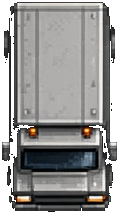
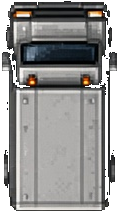
Point truck sprites forward and steer traffic through turns.
Rotate the seven cab-at-the-rear car sprites so every nose points up the file. Cut moving traffic to 14 cars, and make them brake and follow a curved arc through junctions instead of spinning in place.

diff --git a/js/routes.js b/js/routes.js
@@ -14,10 +14,14 @@ const DIRS = [
   [0, -1],
 ];
 
-const MAX_DRIVERS = 32;
+const MAX_DRIVERS = 14;
 const CRUISE_MIN = 108;
 const STOP_GAP = 34;
 const SLOW_GAP = 118;
+const ACCEL = 90;
+const BRAKE = 180;
+const CORNER_SPEED = 46;
+const TURN_RADIUS = 42;
 const LANE_LAT = 30;
 const SPAWN_MIN = 500;
 const SPAWN_MAX = 860;
@@ -333,6 +337,68 @@ export function planCars(map) {
     return out;
   }
 
+  // Replace a sharp corner with a short bezier so the lane itself bends.
+  // The arc is kept only when the whole sprite stays on asphalt along it.
+  function curvePath(pts) {
+    if (pts.length < 3) return pts;
+    const out = [{ x: pts[0].x, z: pts[0].z }];
+    for (let i = 1; i < pts.length - 1; i += 1) {
+      const prev = out[out.length - 1];
+      const corner = pts[i];
+      const next = pts[i + 1];
+      const inX = corner.x - prev.x;
+      const inZ = corner.z - prev.z;
+      const inLen = Math.hypot(inX, inZ);
+      const outX = next.x - corner.x;
+      const outZ = next.z - corner.z;
+      const outLen = Math.hypot(outX, outZ);
+      const ux = inLen > 0 ? inX / inLen : 0;
+      const uz = inLen > 0 ? inZ / inLen : 0;
+      const vx = outLen > 0 ? outX / outLen : 0;
+      const vz = outLen > 0 ? outZ / outLen : 0;
+      if (inLen < 12 || outLen < 12 || ux * vx + uz * vz > 0.92) {
+        out.push({ x: corner.x, z: corner.z });
+        continue;
+      }
+      let fitted = null;
+      for (const lead of [48, 36, 28, 20]) {
+        if (lead + 4 > inLen || lead + 4 > outLen) continue;
+        const p0 = { x: corner.x - ux * lead, z: corner.z - uz * lead };
+        const samples = [];
+        let ok = true;
+        let last = p0;
+        for (let s = 1; s <= 8; s += 1) {
+          const t = s / 8;
+          const u = 1 - t;
+          const p = {
+            x: u * u * p0.x + 2 * u * t * corner.x + t * t * (corner.x + vx * lead),
+            z: u * u * p0.z + 2 * u * t * corner.z + t * t * (corner.z + vz * lead),
+          };
+          if (!poseFits(p.x, p.z, headingAngle(p.x - last.x, p.z - last.z))) {
+            ok = false;
+            break;
+          }
+          samples.push(p);
+          last = p;
+        }
+        if (ok && samples.length > 0) {
+          fitted = { p0, samples };
+          break;
+        }
+      }
+      if (!fitted) {
+        out.push({ x: corner.x, z: corner.z });
+        continue;
+      }
+      if (Math.hypot(fitted.p0.x - prev.x, fitted.p0.z - prev.z) > 2) out.push(fitted.p0);
+      for (const sample of fitted.samples) out.push(sample);
+    }
+    const end = pts[pts.length - 1];
+    const tail = out[out.length - 1];
+    if (Math.hypot(end.x - tail.x, end.z - tail.z) > 2) out.push({ x: end.x, z: end.z });
+    return out;
+  }
+
   function addExit(node, found) {
     if (!found) return;
     const dest = nodeAt.get(`${key(found.tx, found.tz)},${found.di}`);
@@ -350,6 +416,8 @@ export function planCars(map) {
     let pts = raw;
     if (!pathFits(pts)) pts = shapePath(raw);
     if (!pathFits(pts)) return;
+    const rounded = curvePath(pts);
+    if (pathFits(rounded)) pts = rounded;
     const seg = [];
     let len = 0;
     for (let i = 0; i < pts.length - 1; i += 1) {
@@ -381,6 +449,12 @@ export function planCars(map) {
     list.push(node);
   }
   return { parked, nodes, linked, buckets, span, cols, rows, at, isRoad, poseFits };
+}
+
+function wrapAngle(delta) {
+  while (delta > Math.PI) delta -= Math.PI * 2;
+  while (delta < -Math.PI) delta += Math.PI * 2;
+  return delta;
 }
 
 function pointAlong(exit, dist, out) {
@@ -481,6 +555,8 @@ export function createSim(plan, models, pick) {
     driver.angle = headingAngle(edge.pts[1].x - edge.pts[0].x, edge.pts[1].z - edge.pts[0].z);
     driver.speed = 0;
     driver.wait = 0;
+    driver.arc = null;
+    driver.commit = null;
     driver.cruise = CRUISE_MIN + (tileHash(node.tx, node.tz + spawnSerial) % 40);
     return true;
   }
@@ -539,6 +615,8 @@ export function createSim(plan, models, pick) {
         wait: 0,
         alive: true,
         blocked: false,
+        arc: null,
+        commit: null,
       };
       driver.model = pick(hash);
       driver.w = models[driver.model].w;
@@ -573,6 +651,85 @@ export function createSim(plan, models, pick) {
     const turn = Math.abs(Math.atan2(Math.sin(other.angle - driver.angle), Math.cos(other.angle - driver.angle)));
     const reach = turn > 0.8 ? other.h / 2 : other.w / 2;
     return lat - reach < driver.w / 2 + 8;
+  }
+
+  function buildFillet(edge, nextIndex) {
+    const dest = plan.nodes[edge.to];
+    const nx = dest && dest.exits[nextIndex];
+    if (!nx || edge.len < 24 || nx.len < 24) return null;
+    const corner = edge.pts[edge.pts.length - 1];
+    const back = { x: 0, z: 0, hx: 0, hz: 0 };
+    const fore = { x: 0, z: 0, hx: 0, hz: 0 };
+    pointAlong(edge, Math.max(0, edge.len - 8), back);
+    const inAng = headingAngle(corner.x - back.x, corner.z - back.z);
+    pointAlong(nx, Math.min(8, nx.len), fore);
+    const outAng = headingAngle(fore.x - corner.x, fore.z - corner.z);
+    const turn = Math.abs(wrapAngle(outAng - inAng));
+    if (turn < 0.45 || turn > 2.6) return null;
+    for (const lead of [40, 32, 24, 18]) {
+      if (lead + 2 > edge.len || lead + 2 > nx.len) continue;
+      pointAlong(edge, edge.len - lead, back);
+      pointAlong(nx, lead, fore);
+      const p0 = { x: back.x, z: back.z };
+      const p1 = { x: fore.x, z: fore.z };
+      const pts = [p0];
+      const seg = [];
+      let ok = true;
+      let last = p0;
+      for (let s = 1; s <= 10; s += 1) {
+        const t = s / 10;
+        const u = 1 - t;
+        const p = {
+          x: u * u * p0.x + 2 * u * t * corner.x + t * t * p1.x,
+          z: u * u * p0.z + 2 * u * t * corner.z + t * t * p1.z,
+        };
+        if (!plan.poseFits(p.x, p.z, headingAngle(p.x - last.x, p.z - last.z))) {
+          ok = false;
+          break;
+        }
+        seg.push(Math.hypot(p.x - last.x, p.z - last.z) || 0.001);
+        pts.push(p);
+        last = p;
+      }
+      if (!ok) continue;
+      let len = 0;
+      for (const step of seg) len += step;
+      return {
+        pts,
+        seg,
+        len,
+        dist: 0,
+        lead,
+        nextNode: edge.to,
+        nextExit: nextIndex,
+        endDist: lead,
+      };
+    }
+    return null;
+  }
+
+  function commitTurn(edge) {
+    const dest = plan.nodes[edge.to];
+    if (!dest || dest.exits.length === 0) return { exitIndex: -1, arc: null };
+    pointAlong(edge, Math.max(0, edge.len - 8), scratch);
+    const lane = headingAngle(scratch.hx, scratch.hz);
+    const options = [];
+    for (let index = 0; index < dest.exits.length; index += 1) {
+      const nx = dest.exits[index];
+      const ang = headingAngle(nx.pts[1].x - nx.pts[0].x, nx.pts[1].z - nx.pts[0].z);
+      const turn = Math.abs(wrapAngle(ang - lane));
+      if (turn > 2.6 && dest.exits.length > 1) continue;
+      options.push({
+        index,
+        turn,
+        arc: turn >= 0.45 ? buildFillet(edge, index) : null,
+      });
+    }
+    if (options.length === 0) return { exitIndex: chooseExit(edge.to), arc: null };
+    const withArc = options.filter((option) => option.turn < 0.45 || option.arc);
+    const pool = withArc.length > 0 ? withArc : options;
+    const chosen = pool[Math.floor(Math.random() * pool.length)];
+    return { exitIndex: chosen.index, arc: chosen.arc };
   }
 
   return {
@@ -662,13 +819,92 @@ export function createSim(plan, models, pick) {
         if (limit < 8 && !backing) driver.wait += dt;
         else driver.wait = 0;
         driver.blocked = blocked;
-        driver.speed = limit;
-        if (backing) driver.dist = Math.max(0, driver.dist - 80 * dt);
+        const stepDt = Math.min(dt, 0.05);
+        const edgeNow = plan.nodes[driver.node] && plan.nodes[driver.node].exits[driver.exit];
+        let laneNow = driver.angle;
+        if (edgeNow) {
+          pointAlong(edgeNow, driver.dist, scratch);
+          if (scratch.hx * scratch.hx + scratch.hz * scratch.hz > 4) {
+            laneNow = headingAngle(scratch.hx, scratch.hz);
+          }
+        }
+        let turnAt = Infinity;
+        if (edgeNow && !driver.arc && !driver.commit && edgeNow.len - driver.dist < 130) {
+          driver.commit = commitTurn(edgeNow);
+        }
+        if (driver.commit && driver.commit.arc && edgeNow) {
+          turnAt = Math.max(0, edgeNow.len - driver.dist - driver.commit.arc.lead);
+        } else if (driver.arc) {
+          turnAt = 0;
+        }
+        if (edgeNow && turnAt === Infinity) {
+          for (const extra of [24, 48, 72, 100, 130]) {
+            if (driver.dist + extra > edgeNow.len) break;
+            pointAlong(edgeNow, driver.dist + extra, ahead);
+            const look = headingAngle(ahead.hx, ahead.hz);
+            if (Math.abs(wrapAngle(look - laneNow)) > 0.35) {
+              turnAt = extra;
+              break;
+            }
+          }
+          const remain = edgeNow.len - driver.dist;
+          if (remain < 140 && turnAt === Infinity) {
+            const dest = plan.nodes[edgeNow.to];
+            if (dest) {
+              for (const exit of dest.exits) {
+                const hx = exit.pts[1].x - exit.pts[0].x;
+                const hz = exit.pts[1].z - exit.pts[0].z;
+                if (Math.abs(wrapAngle(headingAngle(hx, hz) - laneNow)) > 0.45) {
+                  turnAt = remain;
+                  break;
+                }
+              }
+            }
+          }
+        }
+        if (turnAt < Infinity) {
+          const brakeDist = Math.max(0, driver.speed * driver.speed - CORNER_SPEED * CORNER_SPEED) / (2 * BRAKE);
+          if (turnAt < brakeDist + 36) limit = Math.min(limit, CORNER_SPEED);
+        }
+        if (backing) {
+          driver.speed = Math.max(0, driver.speed - BRAKE * stepDt);
+          if (driver.speed < 8) driver.dist = Math.max(0, driver.dist - 70 * stepDt);
+        } else if (driver.speed < limit) {
+          driver.speed = Math.min(limit, driver.speed + ACCEL * stepDt);
+        } else {
+          driver.speed = Math.max(limit, driver.speed - BRAKE * stepDt);
+        }
         if ((driver.speed < 1 && !backing) || (driver.wait > STUCK_TIME && !blocked)) {
           continue;
         }
 
-        let left = backing ? 0 : driver.speed * dt;
+        let left = backing ? 0 : driver.speed * stepDt;
+        if (backing && driver.arc) {
+          const backEdge = plan.nodes[driver.node].exits[driver.exit];
+          if (backEdge) driver.dist = Math.max(0, backEdge.len - driver.arc.lead);
+          driver.arc = null;
+          driver.commit = null;
+        }
+        if (!backing && !driver.arc && driver.commit && driver.commit.arc && edgeNow) {
+          const remain = edgeNow.len - driver.dist;
+          if (remain <= driver.commit.arc.lead) {
+            driver.arc = driver.commit.arc;
+            driver.arc.dist = Math.max(0, driver.commit.arc.lead - remain);
+            driver.commit = null;
+          }
+        }
+        if (driver.arc) {
+          driver.arc.dist += left;
+          left = 0;
+          if (driver.arc.dist >= driver.arc.len) {
+            left = driver.arc.dist - driver.arc.len;
+            driver.node = driver.arc.nextNode;
+            driver.exit = driver.arc.nextExit;
+            driver.dist = driver.arc.endDist;
+            driver.arc = null;
+            driver.commit = null;
+          }
+        }
         let hops = 0;
         while (left > 0 && hops < 4) {
           hops += 1;
@@ -678,14 +914,30 @@ export function createSim(plan, models, pick) {
             driver.wait = STUCK_TIME;
             break;
           }
-          const remain = edge.len - driver.dist;
-          if (left < remain) {
+          const fillet = driver.commit && driver.commit.arc;
+          const stop = fillet ? edge.len - fillet.lead : edge.len;
+          const remain = stop - driver.dist;
+          if (remain > 0 && left < remain) {
             driver.dist += left;
             left = 0;
+          } else if (fillet) {
+            left -= Math.max(0, remain);
+            driver.arc = fillet;
+            driver.arc.dist = left;
+            driver.commit = null;
+            left = 0;
+            if (driver.arc.dist >= driver.arc.len) {
+              left = driver.arc.dist - driver.arc.len;
+              driver.node = driver.arc.nextNode;
+              driver.exit = driver.arc.nextExit;
+              driver.dist = driver.arc.endDist;
+              driver.arc = null;
+            }
           } else {
-            left -= remain;
+            left -= Math.max(0, remain);
             const arrived = edge.to;
-            const nextExit = chooseExit(arrived);
+            const nextExit = driver.commit && driver.commit.exitIndex >= 0 ? driver.commit.exitIndex : chooseExit(arrived);
+            driver.commit = null;
             if (nextExit < 0) {
               driver.wait = STUCK_TIME;
               driver.blocked = false;
@@ -696,21 +948,20 @@ export function createSim(plan, models, pick) {
             driver.dist = 0;
           }
         }
-        const edge = plan.nodes[driver.node].exits[driver.exit];
+        const riding = driver.arc;
+        const edge = riding || plan.nodes[driver.node].exits[driver.exit];
         if (!edge) continue;
-        pointAlong(edge, driver.dist, scratch);
+        pointAlong(edge, riding ? riding.dist : driver.dist, scratch);
         driver.x = scratch.x;
         driver.z = scratch.z;
         const lane = headingAngle(scratch.hx, scratch.hz);
-        pointAlong(edge, Math.min(edge.len, driver.dist + 36), ahead);
-        let target = lane;
-        if (ahead.hx * ahead.hx + ahead.hz * ahead.hz > 4) {
-          const look = headingAngle(ahead.x - scratch.x, ahead.z - scratch.z);
-          if (plan.poseFits(scratch.x, scratch.z, look)) target = look;
-        }
-        const blend = 1 - Math.exp(-dt * 10);
-        const turned = lerpAngle(driver.angle, target, blend);
-        driver.angle = plan.poseFits(scratch.x, scratch.z, turned) ? turned : lane;
+        const yawCap = (Math.max(driver.speed, 0) / TURN_RADIUS) * stepDt;
+        let delta = driver.speed < 8 ? 0 : wrapAngle(lane - driver.angle);
+        if (delta > yawCap) delta = yawCap;
+        else if (delta < -yawCap) delta = -yawCap;
+        const turned = driver.angle + delta;
+        if (plan.poseFits(scratch.x, scratch.z, turned)) driver.angle = turned;
+        else if (plan.poseFits(scratch.x, scratch.z, lane)) driver.angle = lane;
       }
     },
   };

diff --git a/README.md b/README.md
@@ -20,7 +20,7 @@ You stay on roads, sidewalks, parks, plazas, docks, and bridges. Buildings and t
 - Buildings show a little of their south side, because the camera is tilted about 12 degrees toward the north and sits about 12.5% closer, and they still lean in perspective
 - Crisp pixels: the picture is drawn at 960×540 and scaled up by whole numbers (exactly 2× on a 1080p screen)
 - A small map in the corner, and an FPS counter
-- Cars drive the right-hand lane, including the ring road, and turn at intersections. They keep back from the car ahead and stop for you if you stand in front of them. Others stay parked along the curb. A normal car is about one lane wide. Police cars, ambulances, and fire trucks show up less often. You can walk up to a car, and it stops you
+- Cars drive the right-hand lane, including the ring road. They speed up, brake before a junction, and steer through a curved arc instead of spinning in place. They keep back from the car ahead and stop for you if you stand in front of them. Others stay parked along the curb. A normal car is about one lane wide. Police cars, ambulances, and fire trucks show up less often. You can walk up to a car, and it stops you
 
 ## The map file
 
